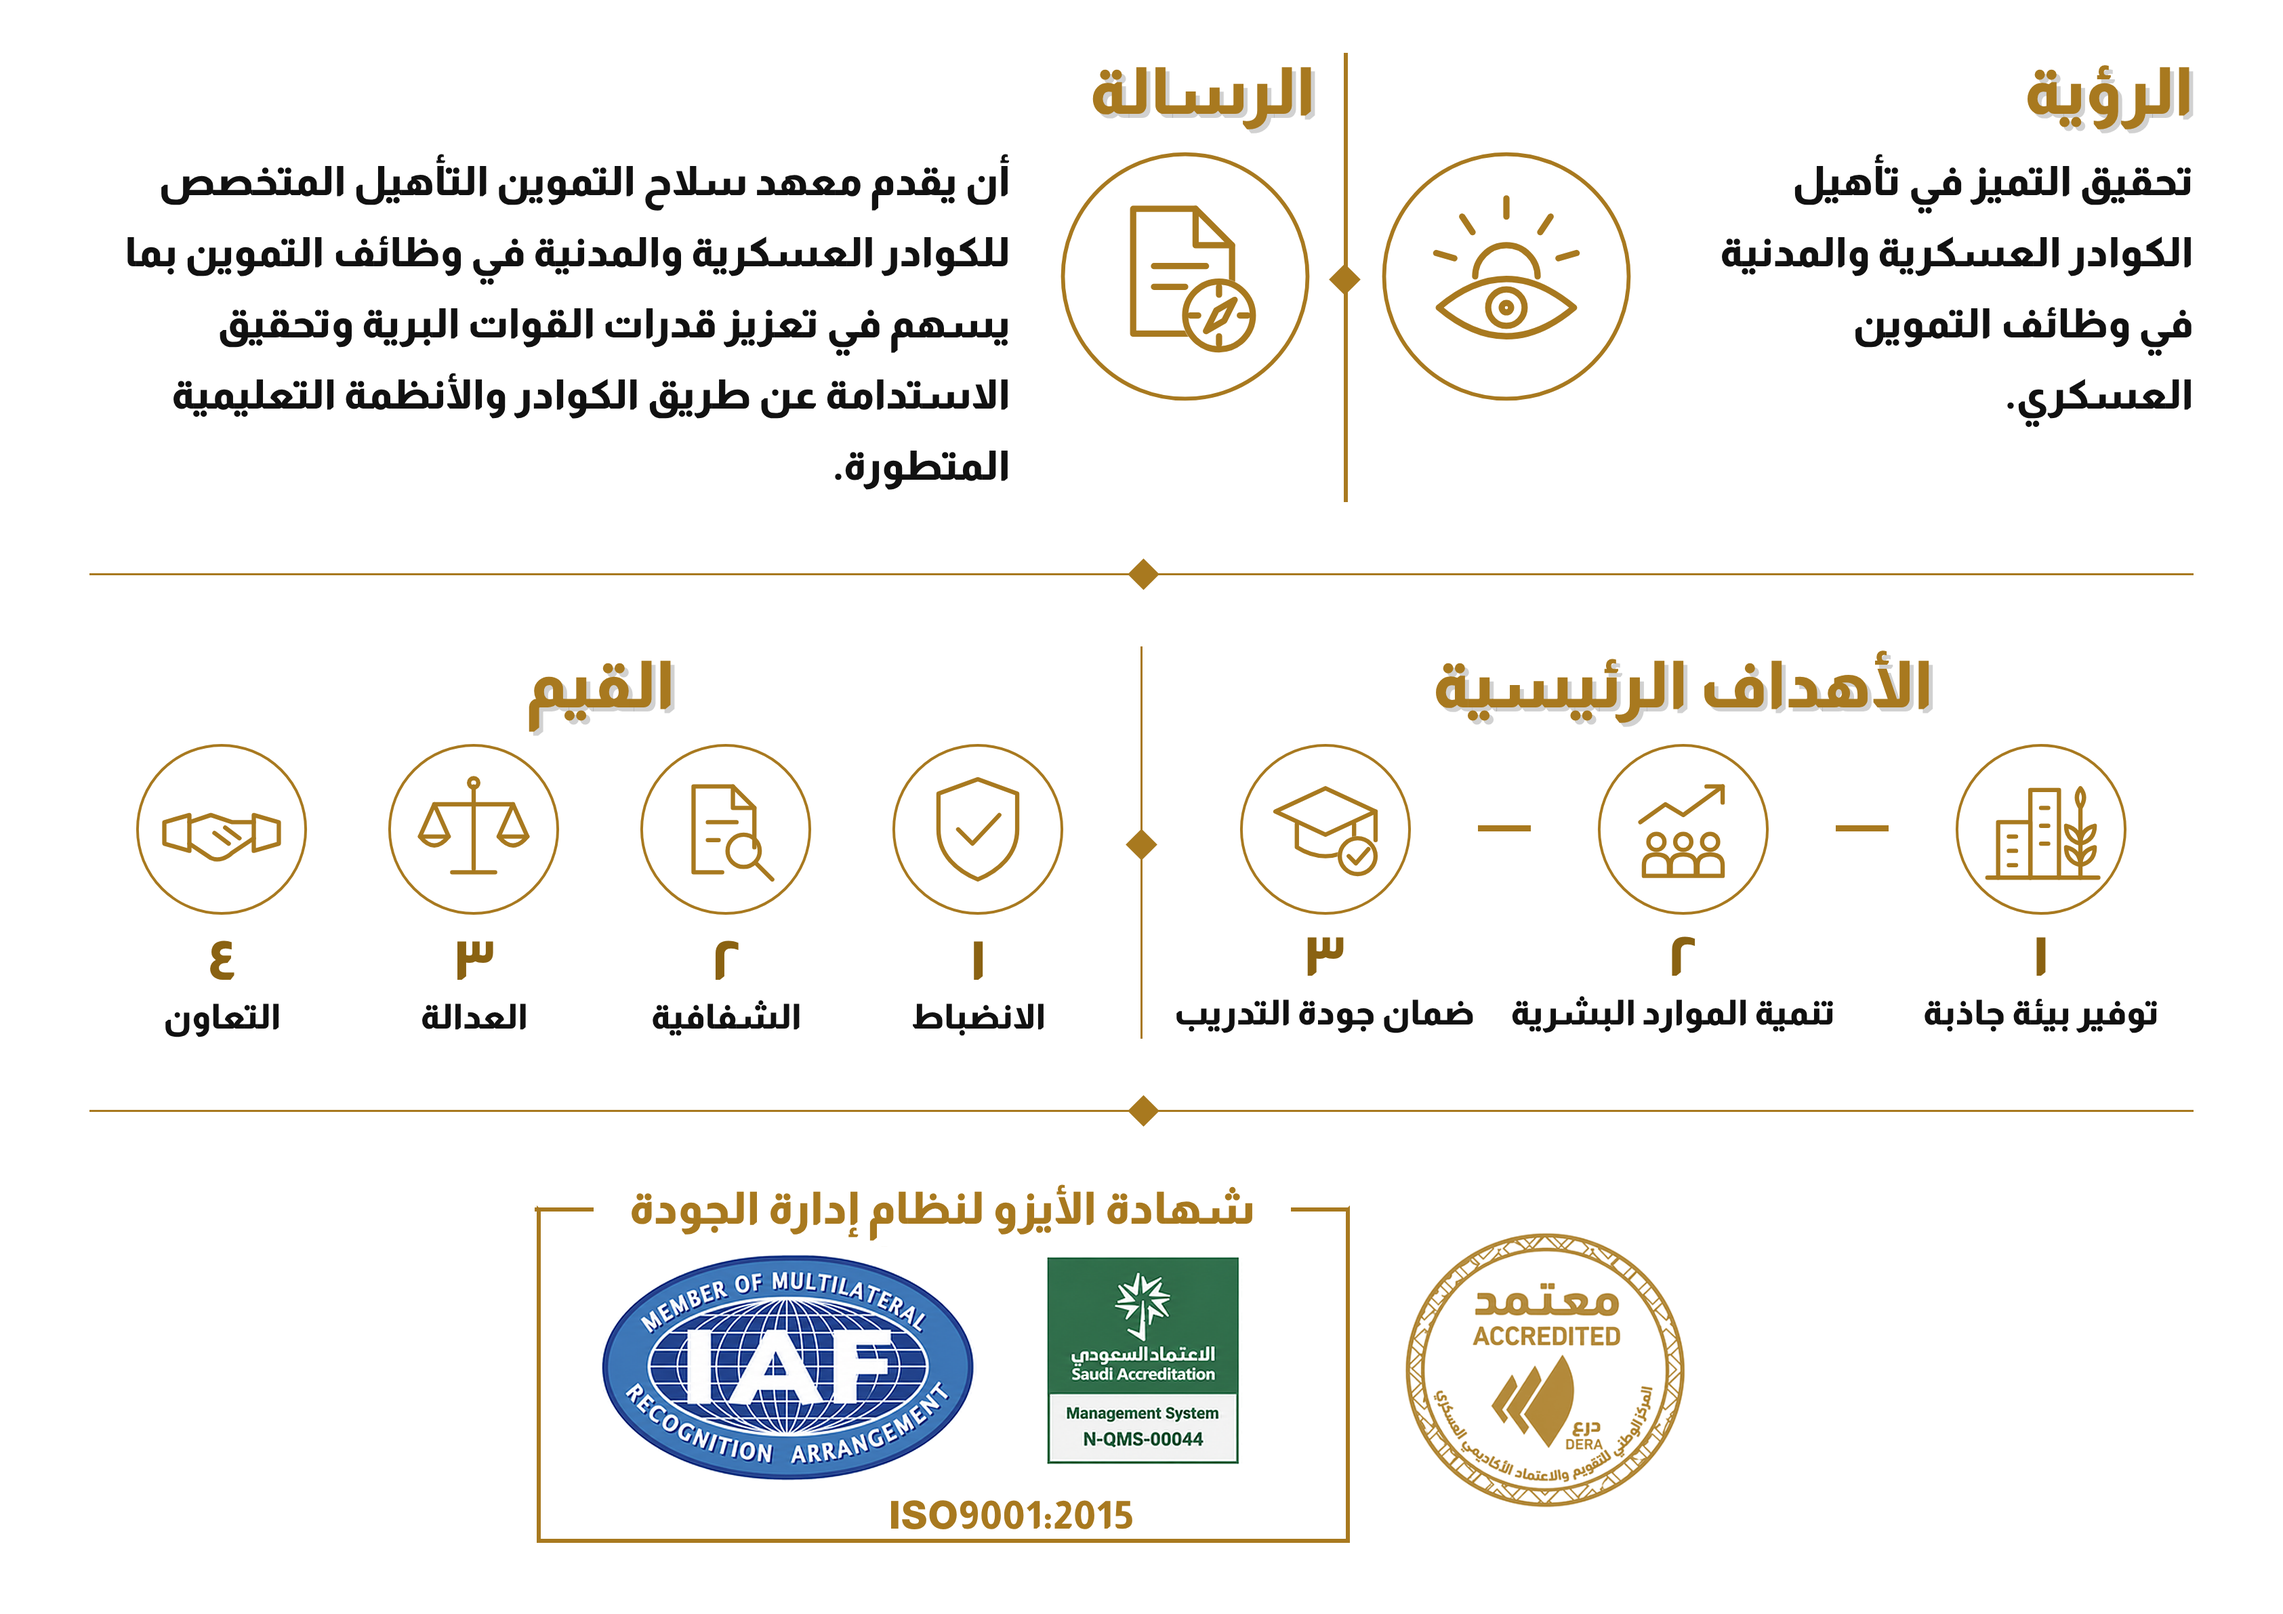
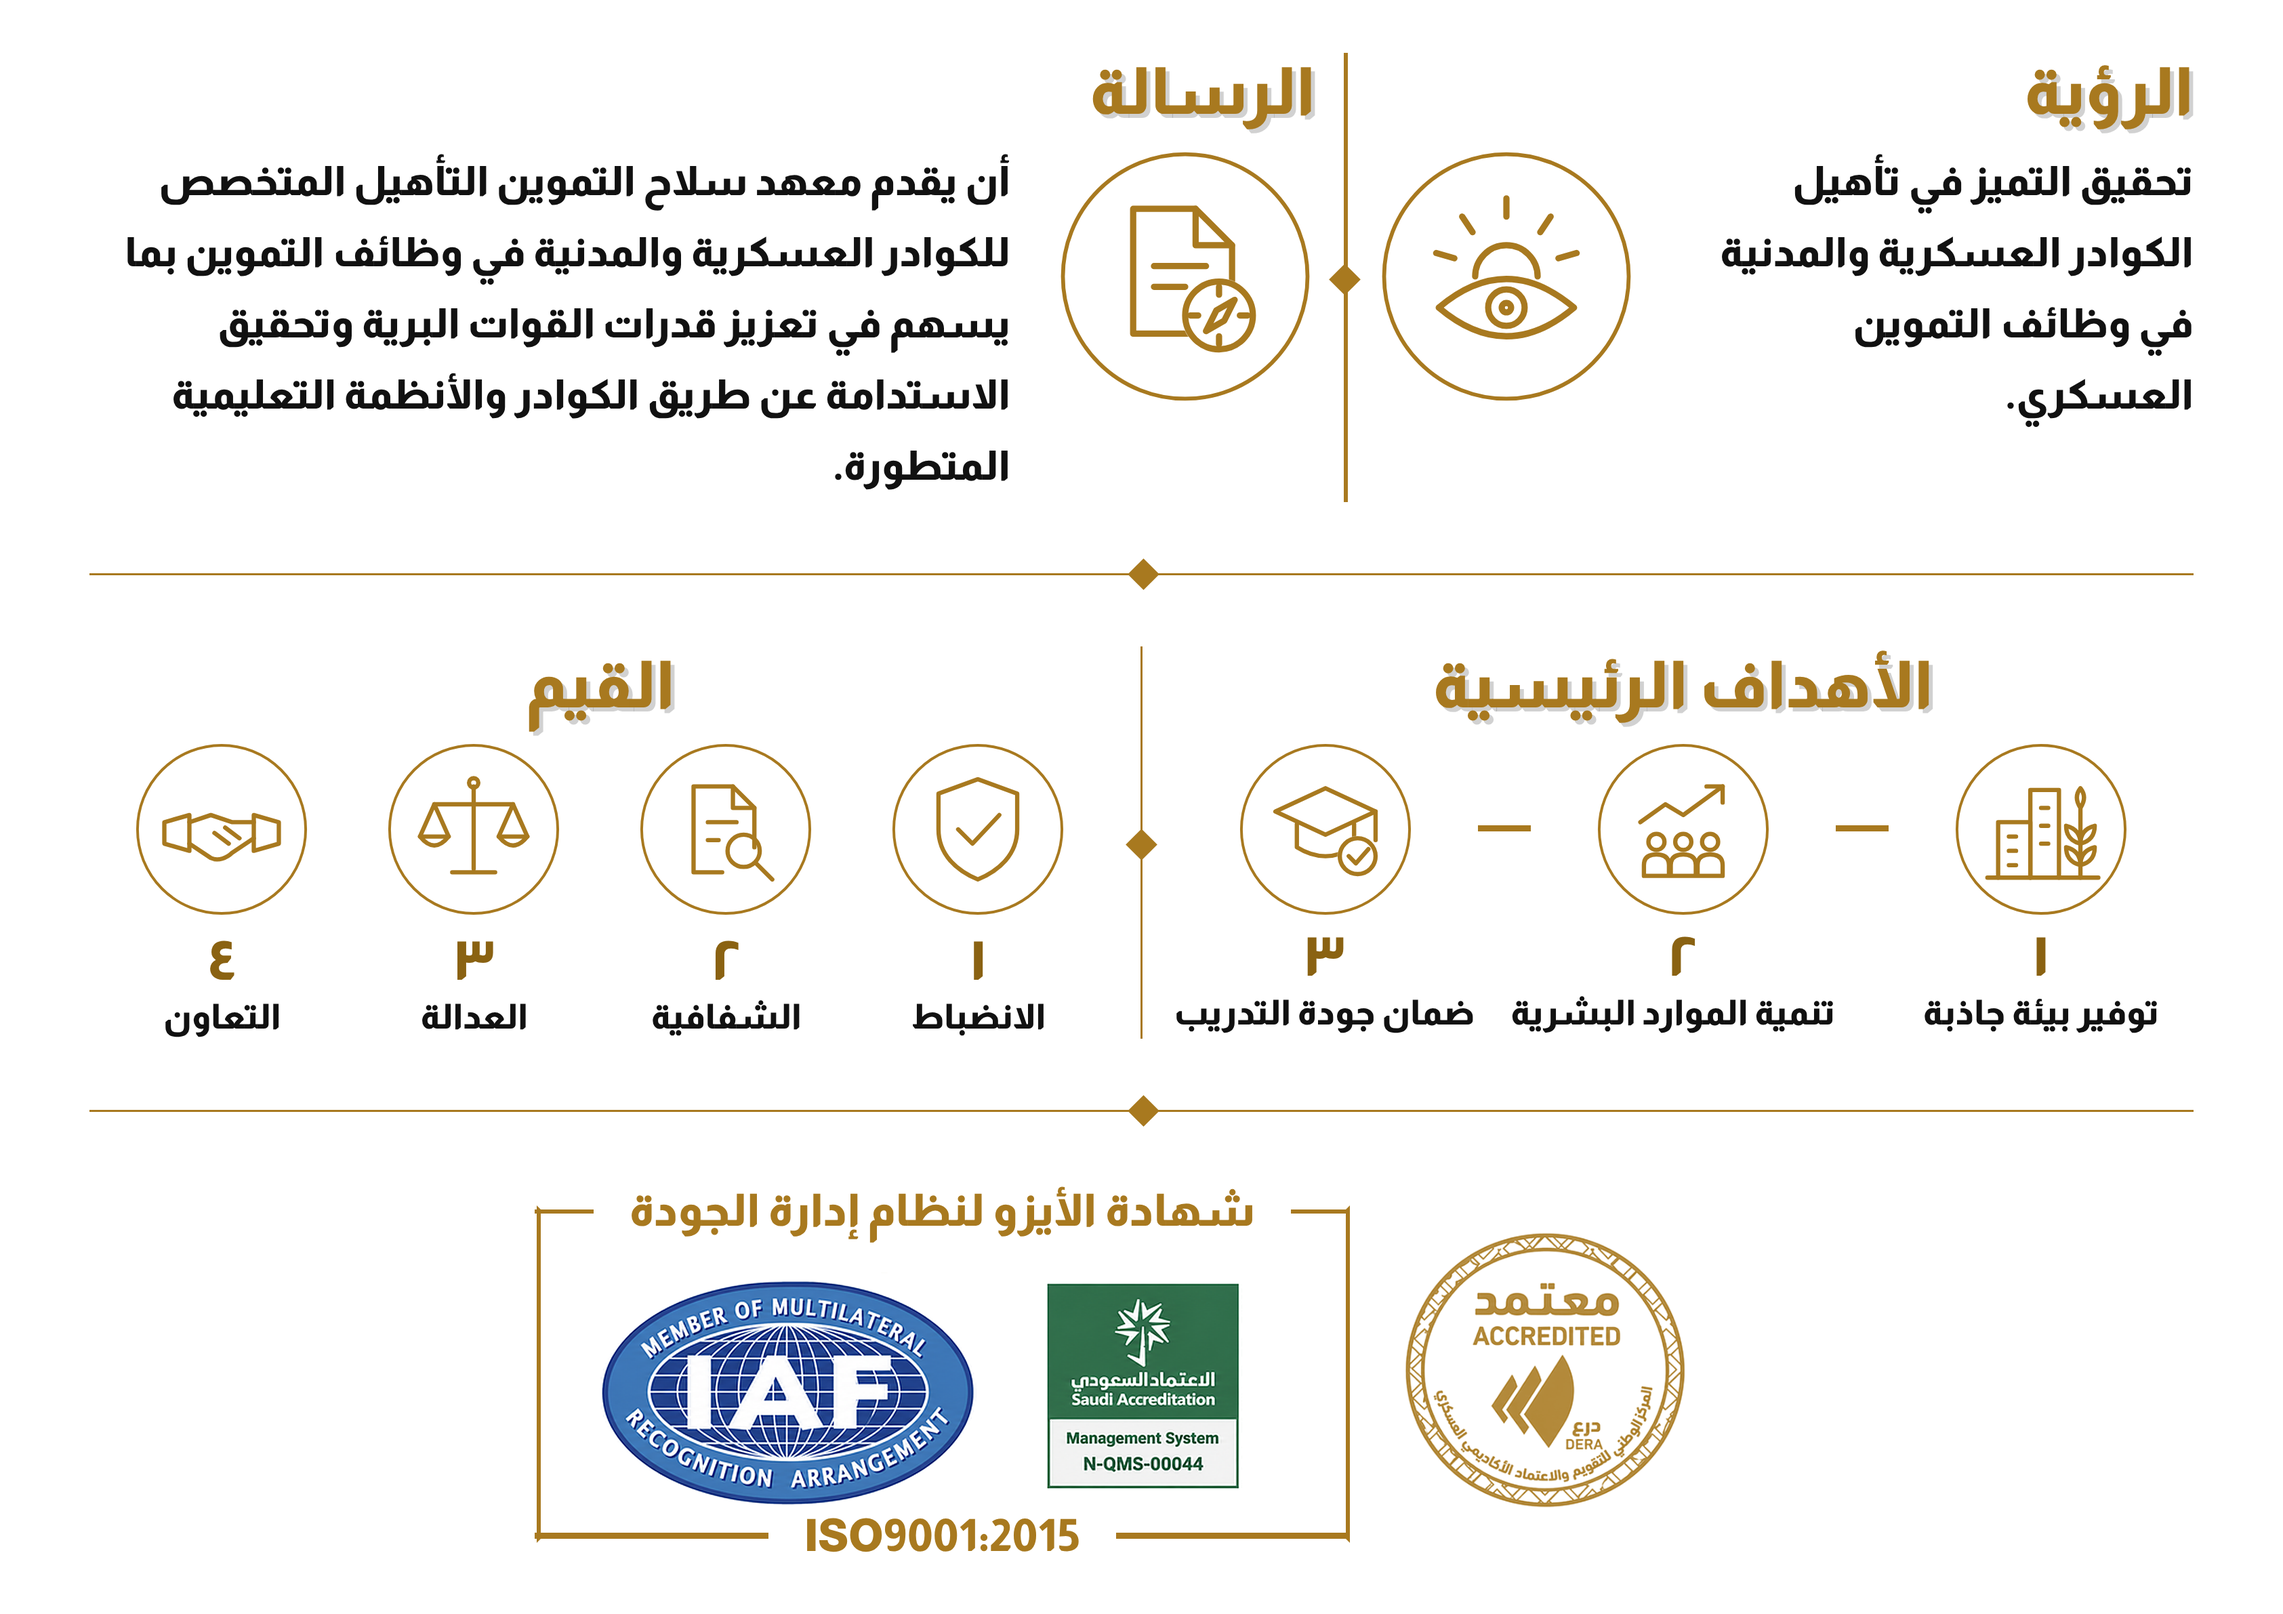
Draw ISO label on the bottom border like the certificate title
Claude-Session: https://claude.ai/code/session_01HHtdcPQB4WrWFBfNpP3BhG

Changed region(s): [[0.2493, 0.7456, 0.5922, 0.9631]]

diff --git a/infographic/index.html b/infographic/index.html
@@ -41,14 +41,16 @@
   /* الشهادات */
   #cert{display:flex;align-items:center;gap:22px;height:188px;width:572px;margin:0 auto;position:relative;left:-12px}
   #cert img{mix-blend-mode:multiply;height:auto}
-  .cert-box{flex:1;height:166px;border:2.5px solid var(--gold);position:relative;display:flex;flex-direction:column;align-items:center;justify-content:center;padding:16px 16px 0}
-  .cert-box h3{position:absolute;top:-16px;left:0;right:0;display:flex;align-items:center;gap:14px;padding:0 16px;color:var(--gold);font-size:22px;line-height:32px;text-align:center}
+  .cert-box{flex:1;height:166px;border:2.5px solid var(--gold);border-top-color:transparent;border-bottom-color:transparent;position:relative;display:flex;flex-direction:column;align-items:center;justify-content:center;padding:16px 16px 0}
+  .cert-box h3{position:absolute;top:-14.75px;left:-2.5px;right:-2.5px;display:flex;align-items:center;gap:14px;padding:0;color:var(--gold);font-size:22px;line-height:32px;text-align:center}
   .cert-box h3::before,.cert-box h3::after{content:"";flex:1;height:2.5px;background:var(--gold)}
-  .cert-box h3 span{background:#fff;padding:0 4px;white-space:nowrap}
+  .cert-box h3 span{padding:0 4px;white-space:nowrap}
   .logos-wrap{align-self:flex-start;margin-right:33.5px;display:flex;flex-direction:column;align-items:center}
   .logos{display:flex;align-items:center;gap:28px}
   .logos img:nth-child(1){width:100px}.logos img:nth-child(2){width:190px}
-  .iso{font-size:19px;line-height:1;margin-top:6px;direction:ltr;letter-spacing:.3px;color:var(--gold);position:relative;left:44.5px}
+  .iso{position:absolute;bottom:-14.75px;left:-2.5px;right:-2.5px;display:flex;align-items:center;gap:14px;color:var(--gold);font-size:22px;line-height:32px;direction:ltr;text-align:center}
+  .iso::before,.iso::after{content:"";flex:1;height:2.5px;background:var(--gold)}
+  .iso span{padding:0 4px;white-space:nowrap}
   .seal{width:150px;flex:none}
 </style>
 </head>
@@ -104,8 +106,8 @@
           <img src="assets/sa.png" alt="">
           <img src="assets/iaf.png" alt="">
         </div>
-        <div class="iso">ISO9001:2015</div>
       </div>
+      <div class="iso"><span>ISO9001:2015</span></div>
     </div>
   </section>
 </div>

diff --git a/infographic/render.js b/infographic/render.js
@@ -5,7 +5,7 @@ const { chromium } = require('playwright');
   const p = await b.newPage({ viewport: { width: 1123, height: 794 }, deviceScaleFactor: 3 });
   await p.goto('file://' + __dirname + '/index.html');
   if (transparent) {
-    await p.addStyleTag({ content: 'body,.page{background:transparent!important}#cert img{mix-blend-mode:normal!important}.cert-box h3 span{background:transparent!important}.cert-box{border-top-color:transparent!important}.cert-box h3{padding:0!important;left:-2.5px!important;right:-2.5px!important}' });
+    await p.addStyleTag({ content: 'body,.page{background:transparent!important}#cert img{mix-blend-mode:normal!important}' });
     await p.evaluate(() => document.querySelectorAll('#cert img').forEach(i => { i.src = i.getAttribute('src').replace('.png', '_t.png'); }));
     await p.waitForFunction(() => [...document.images].every(i => i.complete));
   }
